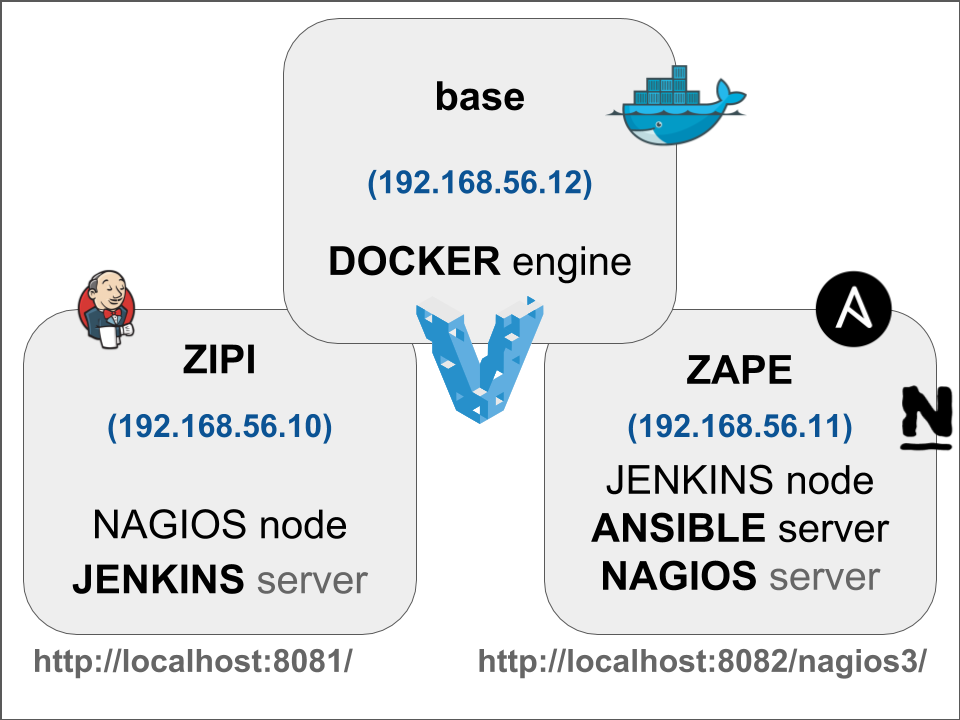
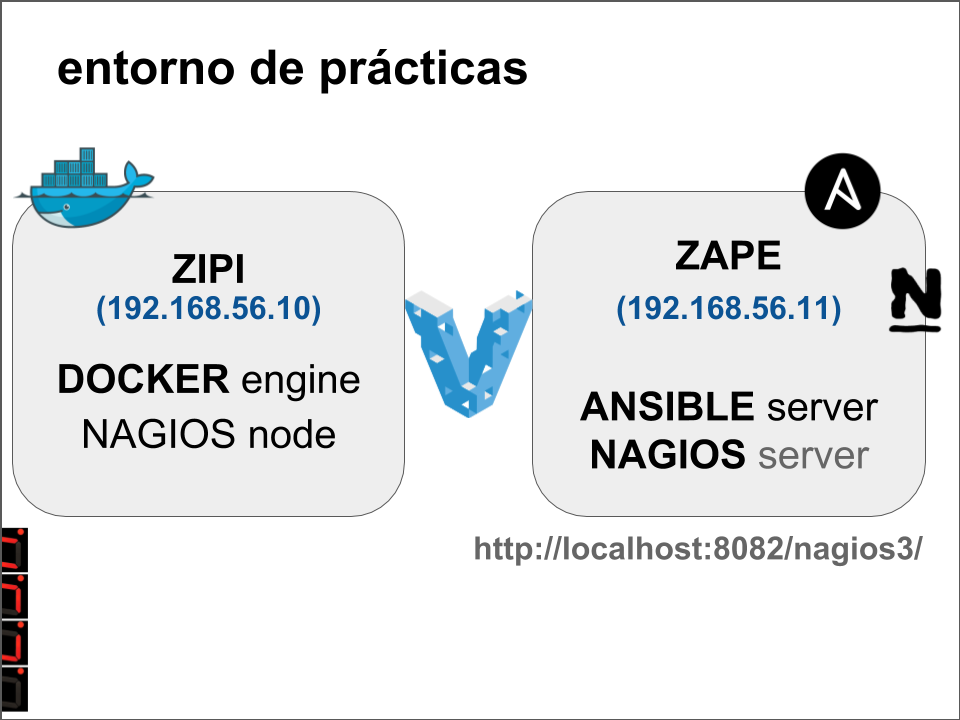
deprecated jenkins + new environment diagram

diff --git a/pre-requisitos/README.md b/pre-requisitos/README.md
@@ -2,7 +2,7 @@
 
 Esta carpeta contiene los ficheros necesarios para generar los entornos de prácticas. El entorno de pruebas esta compuesto de tres máquinas virtuales como se muestra en el siguiente diagrama:
 
-![Entorno de prácticas](./entorno de practicas.png)
+![Entorno de prácticas](./entorno_de_practicas.png)
 
 ### Software necesario
 

diff --git a/README.md b/README.md
@@ -4,7 +4,7 @@ Este curso incluye prácticas de iniciación a los siguientes softwares:
 
 * [Git](01_Git)
 * [Vagrant](02_Vagrant)
-* [Jenkins](03_Jenkins)
+* ~~[Jenkins](03_Jenkins)~~ (DEPRECATED)
 * [Ansible](04_Ansible)
 * [Nagios](05_Nagios)
 * [Docker](06_Docker)
